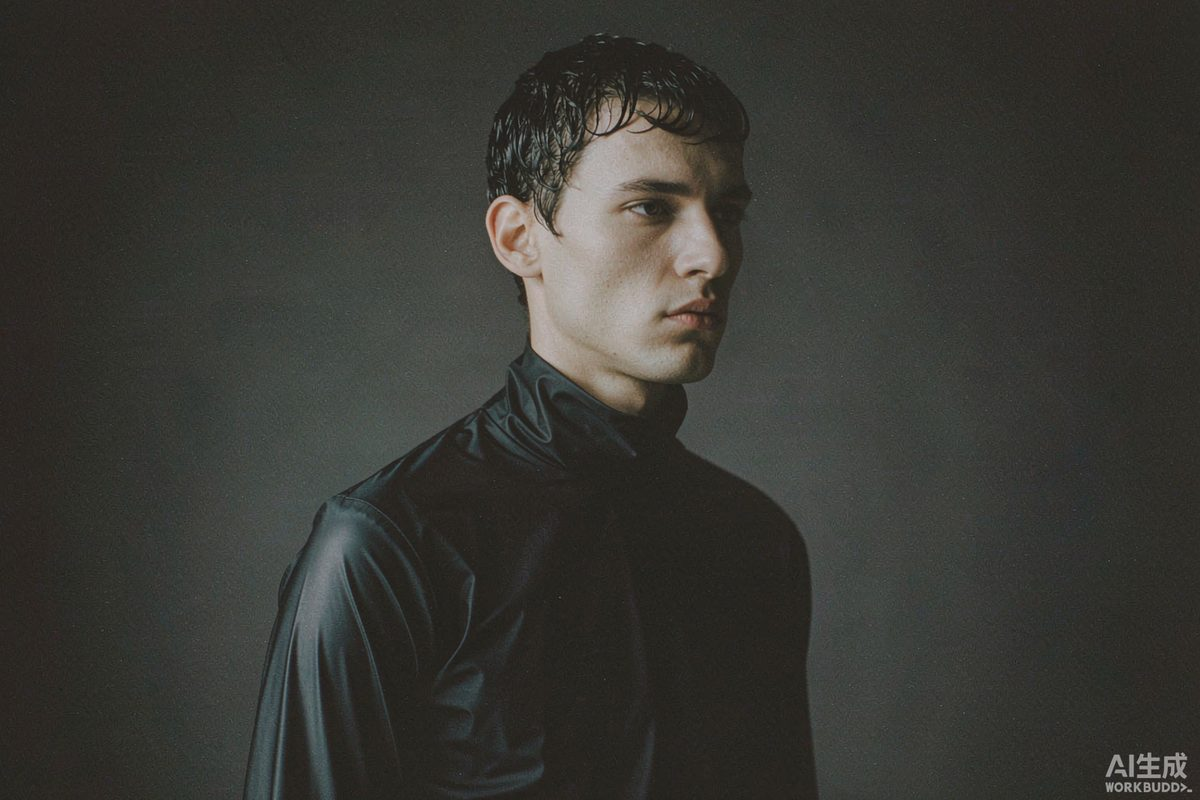
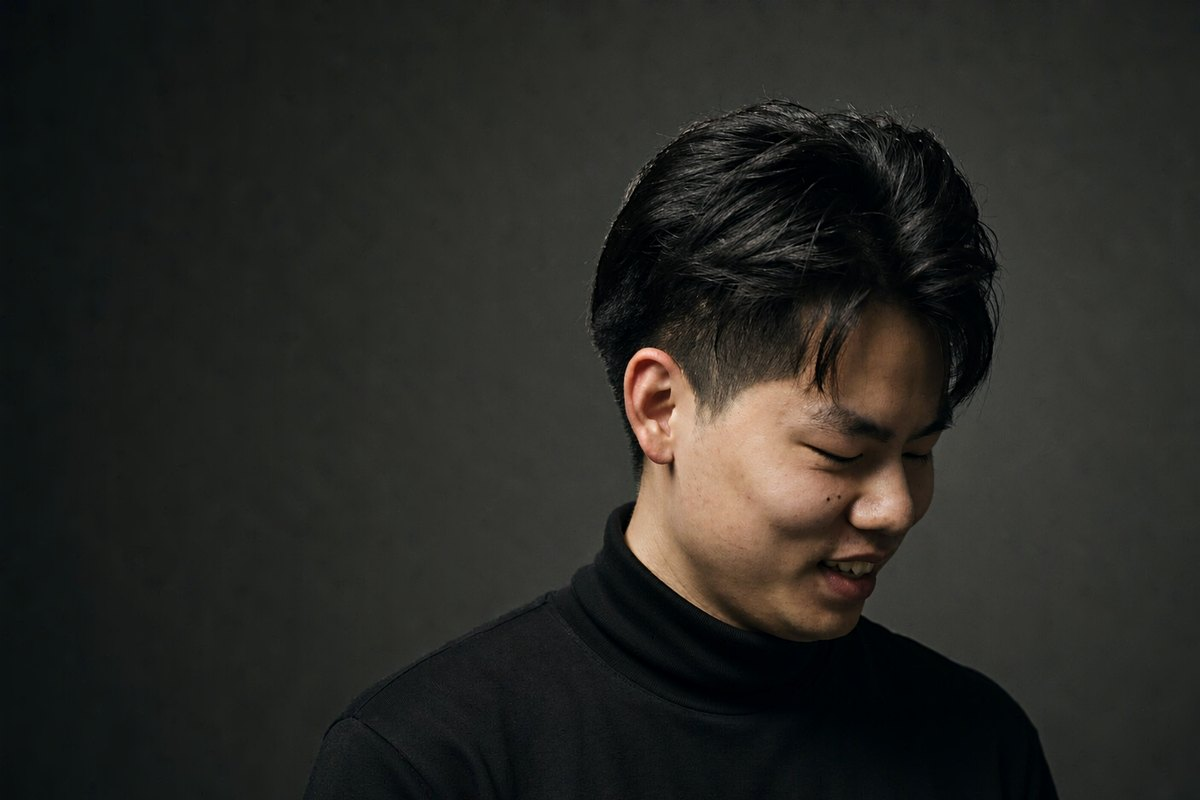
feat: 男模审美→男模收藏，换新封面（本人照片转编辑风格）
- 分类与侧栏改名「男模收藏」，id 仍为 male，链接不变
- p19 封面用图生图重制：保留原人脸特征（脸型/眉眼/痣/发型），改成深色影棚编辑风：
  右侧构图、胸像、头高约画面一半、左侧硬光 + 暗角、冷调降饱和
- 裁掉生成图右下角 AI 水印（扫描近白像素定位边界后按 3:2 从左上裁），输出 1200×800 与旧封面同尺寸
- 详情页大图改用 p19-full

diff --git a/assets/js/data.js b/assets/js/data.js
@@ -60,7 +60,7 @@ window.SITE_DATA = {
         { label: '设计素材', icon: 'image', href: 'index.html?cat=asset' },
         { label: '3D 素材', icon: 'box', href: 'index.html?cat=threed' },
         { label: '海报与模板', icon: 'layers', href: 'index.html?cat=post' },
-        { label: '男模审美', icon: 'male', href: 'index.html?cat=male' },
+        { label: '男模收藏', icon: 'male', href: 'index.html?cat=male' },
         { label: '学习资料', icon: 'book', href: 'index.html?cat=study' },
         { label: '收藏网站', icon: 'link', href: 'index.html?cat=sites' }
       ]
@@ -83,7 +83,7 @@ window.SITE_DATA = {
     { id: 'asset', name: '设计素材' },
     { id: 'threed', name: '3D 素材' },
     { id: 'skills', name: 'Skills 技能包' },
-    { id: 'male', name: '男模审美' },
+    { id: 'male', name: '男模收藏' },
     { id: 'post', name: '海报与模板' },
     { id: 'sites', name: '收藏网站' },
     { id: 'study', name: '学习资料' }
@@ -485,9 +485,9 @@ window.SITE_DATA = {
       license: '免费使用；源码可见，允许修改。'
     },
     {
-      id: 'p19', title: '男模审美图集', cat: 'male',
+      id: 'p19', title: '男模收藏图集', cat: 'male',
       subtitle: '60 组男性人像参考：姿态、光位与构图拆解',
-      cover: 'p19', gallery: ['p19', 'p06', 'p05'],
+      cover: 'p19', gallery: ['p19-full', 'p06', 'p05'],
       version: 'v1.0.0', author: '覃露雨', updated: '2026-10-26', code: 'ML-1000',
       free: true, price: 0, badge: '新品', downloads: 216,
       desc: '挑的是「耐看」而不是「好看」：同一套光位下不同体态的气质差异、肩颈与下颌的角度、留白与裁切的关系。每张都标注了镜头焦段与主光方向。',
